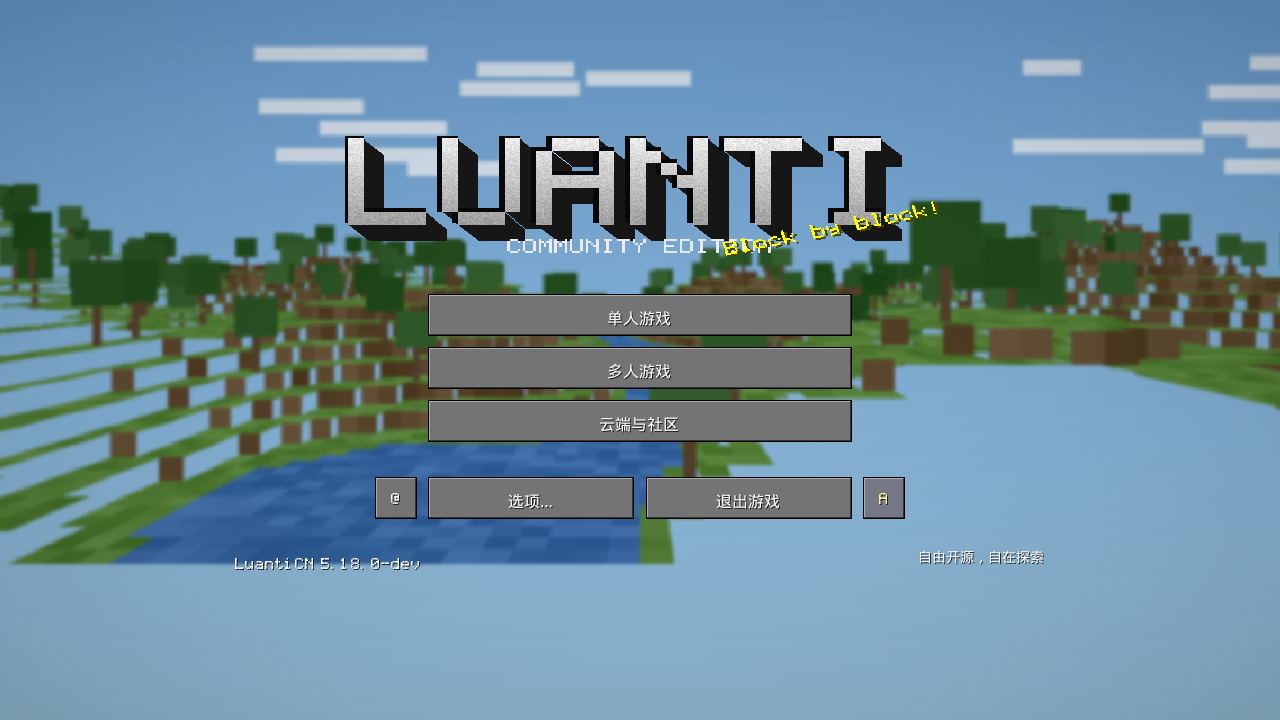
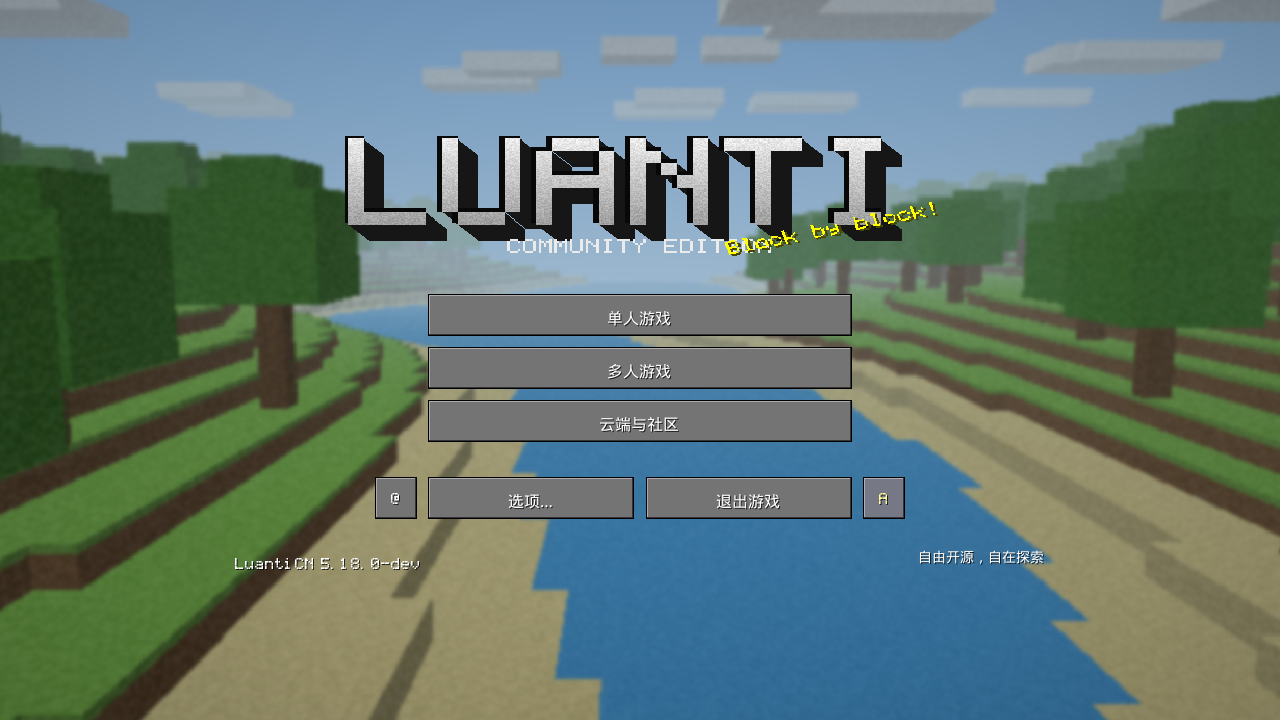
fix(ui): correct panorama projection, foreground coverage and drift

diff --git a/util/generate_classic_ui.py b/util/generate_classic_ui.py
@@ -1,5 +1,5 @@
 #!/usr/bin/env python3
-"""Rebuild original classic UI art and the BlockPixel font (Pillow, fontTools).
+"""Rebuild original classic UI art and BlockPixel (Pillow, fontTools, NumPy).
 
 No Minecraft assets or fonts are used. All bitmap patterns are authored here.
 SPDX-License-Identifier: CC0-1.0
@@ -10,6 +10,7 @@ import math
 import random
 
 from PIL import Image, ImageDraw, ImageFilter
+import numpy as np
 from fontTools.fontBuilder import FontBuilder
 from fontTools.pens.ttGlyphPen import TTGlyphPen
 
@@ -160,62 +161,111 @@ def build_dirt():
 
 
 def build_panorama():
-    # Original voxel river valley. Perspective faces are depth-sorted, then
-    # lightly blurred just like a distant title-screen panorama.
-    w, h = 1280, 640
-    image = Image.new("RGB", (w, h))
-    draw = ImageDraw.Draw(image)
-    for y in range(h):
-        t = y / h
-        draw.line((0, y, w, y), fill=(int(112 + 44*t), int(164 + 35*t), int(216 + 10*t)))
+    # Cast perspective rays through a complete voxel volume. The old polygon
+    # painter omitted side faces and stopped before the foreground, leaving
+    # blue holes and incorrect occlusion. Camera roll is always zero.
+    w, h = 640, 360
+    nx, ny, nz = 160, 48, 192
+    xs, zs = np.meshgrid(np.arange(nx), np.arange(nz), indexing="ij")
+    river = 80 + 7 * np.sin(zs / 25)
+    bank = np.maximum(0, np.abs(xs - river) - 5)
+    heights = np.clip(np.rint(4 + bank * .24 +
+        2 * np.sin(xs / 11) * np.cos(zs / 17) +
+        2 * np.sin(zs / 29)), 2, 23).astype(np.int32)
+    levels = np.arange(ny)[None, :, None]
+    world = np.where(levels <= heights[:, None, :], 2, 0).astype(np.uint8)
+    world[xs, heights, zs] = np.where(heights <= 7, 6, 1)
+    world[(world == 0) & (levels <= 6)] = 3
+
+    # Materials: grass, soil, water, wood, foliage, sand, cloud.
     rng = random.Random(991)
-    for _ in range(20):
-        x, y = rng.randrange(w), rng.randrange(30, 150)
-        draw.rectangle((x, y, x + rng.randrange(45, 190), y + 12), fill=(219, 232, 245))
+    for _ in range(300):
+        x, z = rng.randrange(5, nx - 5), rng.randrange(24, nz - 5)
+        ground = int(heights[x, z])
+        if ground <= 8 or abs(x - river[x, z]) < 10:
+            continue
+        top = ground + rng.randrange(5, 8)
+        world[x, ground + 1:top + 1, z] = 4
+        for y in range(top - 2, top + 3):
+            radius = 1 if y == top + 2 else 2
+            crown = world[x-radius:x+radius+1, y, z-radius:z+radius+1]
+            crown[crown == 0] = 5
+    for _ in range(18):
+        x, z = rng.randrange(4, nx - 20), rng.randrange(50, nz - 20)
+        world[x:x+rng.randrange(8, 19), 35:37, z:z+rng.randrange(5, 12)] = 7
 
-    def height(x, z):
-        river = 5 * math.sin(z / 15)
-        return max(0, round(2 + 4 * math.sin(x / 8) * math.cos(z / 11) +
-                            abs(x - river) / 7 - 4 * math.exp(-((x-river)/5)**2)))
+    u, v = np.meshgrid((np.arange(w) + .5) / w * 2 - 1,
+                       1 - (np.arange(h) + .5) / h * 2)
+    fov = math.tan(math.radians(72) / 2)
+    pitch = math.radians(8)
+    screen_y = v * fov * h / w
+    directions = np.stack((u * fov,
+        screen_y * math.cos(pitch) - math.sin(pitch),
+        math.cos(pitch) + screen_y * math.sin(pitch)), axis=-1).reshape(-1, 3)
+    directions /= np.linalg.norm(directions, axis=1)[:, None]
+    origin = np.array([82.5, 16.5, 12.5])
+    count = w * h
+    cells = np.broadcast_to(np.floor(origin).astype(np.int32), (count, 3)).copy()
+    steps = np.sign(directions).astype(np.int32)
+    deltas = np.full_like(directions, np.inf)
+    np.divide(1, np.abs(directions), out=deltas, where=directions != 0)
+    crossing = (np.where(steps > 0, cells + 1 - origin, origin - cells)) * deltas
+    crossing[directions == 0] = np.inf
+    material = np.zeros(count, dtype=np.uint8)
+    distance = np.zeros(count)
+    axis_hit = np.ones(count, dtype=np.int32)
+    active = np.arange(count)
+    bounds = np.array([nx, ny, nz])
 
-    def project(x, y, z):
-        depth = z + 28
-        return (w/2 + (x-2) * 620/depth, 235 + (10-y) * 620/depth)
+    # DDA visits each ray's nearest next voxel boundary. First occupied voxel
+    # wins, so every visible face has correct perspective and occlusion.
+    for _ in range(nx + ny + nz):
+        if active.size == 0:
+            break
+        axes = crossing[active].argmin(axis=1)
+        travel = crossing[active, axes].copy()
+        cells[active, axes] += steps[active, axes]
+        crossing[active, axes] += deltas[active, axes]
+        inside = ((cells[active] >= 0) & (cells[active] < bounds)).all(axis=1)
+        active, axes, travel = active[inside], axes[inside], travel[inside]
+        cell = cells[active]
+        types = world[cell[:, 0], cell[:, 1], cell[:, 2]]
+        hit = types != 0
+        pixels = active[hit]
+        material[pixels] = types[hit]
+        distance[pixels] = travel[hit]
+        axis_hit[pixels] = axes[hit]
+        active = active[~hit]
+    assert active.size == 0, "Incomplete voxel traversal"
+    assert np.all(material.reshape(h, w)[3*h//4:] != 0), "Uncovered foreground"
 
-    faces = []
-    for z in range(85, -8, -1):
-        for x in range(-65, 66):
-            y = height(x, z)
-            top_y = max(1, y)
-            n = rng.randrange(-15, 16)
-            top = (57+n, 105+n, 167+n) if y < 1 else (85+n, 130+n, 54+n)
-            top_points = [project(x, top_y, z), project(x+1, top_y, z),
-                          project(x+1, top_y, z+1), project(x, top_y, z+1)]
-            faces.append((z + 0.5, top_points, top))
-            neighbor = max(1, height(x, z-1))
-            if top_y > neighbor:
-                pts = [project(x, top_y, z), project(x+1, top_y, z),
-                       project(x+1, neighbor, z), project(x, neighbor, z)]
-                faces.append((z - 0.05, pts, (92+n, 70+n, 44+n)))
-            if y > 2 and rng.random() < 0.017:
-                tx, tz = project(x+0.5, y, z)
-                s = 620/(z+28)
-                faces.append((z - 0.1, [(tx-s*.18,tz), (tx+s*.18,tz),
-                                      (tx+s*.18,tz-3*s), (tx-s*.18,tz-3*s)], (85, 65, 43)))
-                faces.append((z - 0.2, [(tx-1.2*s,tz-2*s), (tx+1.2*s,tz-2*s),
-                                      (tx+1.2*s,tz-4.2*s), (tx-1.2*s,tz-4.2*s)], (42+n, 85+n, 36+n)))
-    for _, points, color in sorted(faces, key=lambda face: -face[0]):
-        draw.polygon(points, fill=color)
-    image = image.filter(ImageFilter.GaussianBlur(1.6))
-    # Subtle vignette keeps white text readable without hiding the landscape.
-    overlay = Image.new("RGBA", image.size)
-    pixels = overlay.load()
-    for y in range(h):
-        for x in range(w):
-            edge = ((x-w/2)/(w/2))**2 + ((y-h/2)/(h/2))**2
-            pixels[x, y] = (0, 0, 0, int(12 + min(edge, 2) * 26))
-    image = Image.alpha_composite(image.convert("RGBA"), overlay).convert("RGB")
-    image.save(PACK / "classic_panorama.png")
+    sky_t = np.clip(directions[:, 1] * 1.4 + .2, 0, 1)[:, None]
+    horizon = np.array([184, 210, 230])
+    sky = horizon * (1 - sky_t) + np.array([88, 151, 216]) * sky_t
+    palette = np.array([[0, 0, 0], [105, 158, 65], [116, 85, 53],
+        [56, 126, 177], [96, 70, 42], [63, 125, 43], [193, 183, 129], [244, 248, 250]])
+    colors = palette[material].astype(float)
+    point = origin + directions * distance[:, None]
+    # Grass occupies only the upper edge of a vertical soil face.
+    side = (material == 1) & (axis_hit != 1) & (point[:, 1] % 1 < .78)
+    colors[side] = palette[2]
+    normal = np.zeros_like(directions)
+    normal[np.arange(count), axis_hit] = -steps[np.arange(count), axis_hit]
+    sunlight = normal @ np.array([-.45, .8, -.35])
+    colors *= (.56 + .44 * np.maximum(sunlight, 0))[:, None]
+    texture_cell = np.floor(point * 8).astype(np.int32)
+    noise = ((texture_cell[:, 0] * 37 ^ texture_cell[:, 1] * 23 ^
+              texture_cell[:, 2] * 47) % 17 - 8)[:, None]
+    colors += noise
+    water = material == 3
+    colors[water] = palette[3] + noise[water] * .6
+    fog = (np.clip(distance / 150, 0, 1) ** 1.6 * .8)[:, None]
+    colors = colors * (1 - fog) + horizon * fog
+    colors[material == 0] = sky[material == 0]
+    vignette = (1 - .1 * (u * u + v * v)).reshape(-1, 1)
+    pixels = np.clip(colors * vignette * .91, 0, 255).astype(np.uint8).reshape(h, w, 3)
+    image = Image.fromarray(pixels).resize((1280, 720), Image.Resampling.NEAREST)
+    image.filter(ImageFilter.GaussianBlur(1.8)).save(PACK / "classic_panorama.png")
 
 
 def build_hud():

diff --git a/src/gui/guiEngine.cpp b/src/gui/guiEngine.cpp
@@ -502,12 +502,16 @@ void GUIEngine::drawBackground(video::IVideoDriver *driver)
 	) / 2;
 	if (m_textures[TEX_LAYER_BACKGROUND].panorama) {
 		// Slow drift within the image's overscan; never expose an empty edge.
-		bg_size.X *= 1.04f;
-		bg_size.Y *= 1.04f;
-		const float phase = porting::getTimeMs() * 0.00008f;
+		bg_size.X = std::ceil(bg_size.X * 1.04);
+		bg_size.Y = std::ceil(bg_size.Y * 1.04);
+		// Bound both the time value and movement: aspect-ratio cropping must
+		// not turn into a large sideways sweep on narrow windows.
+		const double phase = (porting::getTimeMs() % 180000) * (6.283185307179586 / 180000);
+		const s32 drift = std::min(((s32)bg_size.X - (s32)screensize.X) / 2,
+				(s32)std::round(screensize.X * 0.02));
 		offset.X = ((s32)screensize.X - (s32)bg_size.X) / 2;
 		offset.Y = ((s32)screensize.Y - (s32)bg_size.Y) / 2;
-		offset.X += std::sin(phase) * ((s32)bg_size.X - (s32)screensize.X) / 2;
+		offset.X += std::lround(std::sin(phase) * drift);
 	}
 	/* Draw background texture */
 	draw2DImageFilterScaled(driver, texture,
@@ -638,8 +642,12 @@ bool GUIEngine::setTexture(texture_layer layer, const std::string &texturepath,
 	m_textures[layer].texture = m_texture_source->getTexture(texturepath);
 	m_textures[layer].tile    = tile_image;
 	m_textures[layer].minsize = minsize;
-	m_textures[layer].panorama = texturepath == porting::getDataPath(
-			"textures" DIR_DELIM "base" DIR_DELIM "pack" DIR_DELIM "classic_panorama.png");
+	// Lua provides a canonical path, while a run-in-place share path may still
+	// contain "bin/..". Compare resolved paths to recognize the same resource.
+	const std::string panorama_path = fs::AbsolutePath(porting::getDataPath(
+			"textures" DIR_DELIM "base" DIR_DELIM "pack" DIR_DELIM "classic_panorama.png"));
+	m_textures[layer].panorama = !panorama_path.empty() &&
+			fs::AbsolutePath(texturepath) == panorama_path;
 
 	return m_textures[layer].texture != nullptr;
 }

diff --git a/doc/classic_ui/README.md b/doc/classic_ui/README.md
@@ -14,7 +14,10 @@
 | 社区 | 保留本 fork 的云同步、好友、组队、私聊和内容管理入口 |
 
 图案与字体由 `util/generate_classic_ui.py` 原创生成，使用 CC0 授权。
-重建资源需要 Python、Pillow 和 fontTools，运行 `python3 util/generate_classic_ui.py`。
+重建资源需要 Python、Pillow、fontTools 和 NumPy，运行 `python3 util/generate_classic_ui.py`。
+背景采用完整体素体积的透视射线遍历，包含全部可见侧面和前景遮挡；相机没有横滚。
+背景按窗口比例等比覆盖，水平漂移限制在窗口宽度的 2% 内。
+全景资源通过规范化后的路径识别，兼容运行目录中包含 `bin/..` 的情况。
 默认英文字体按整数像素栅格渲染；中文及其他缺失字形仍使用原有后备字体。
 
 这是针对 Luanti 引擎和内置菜单的 Java 经典风格改造。游戏或模组提供的背包布局、HUD 数量、
@@ -25,6 +28,7 @@
 以下截图来自 Linux / OpenGL 3 / 软件渲染 / 简体中文的实际客户端。
 
 ![标题画面](title.png)
+![标题画面（4:3 窗口）](title-4-3.png)
 ![世界列表](worlds.png)
 ![选项入口](options.png)
 ![暂停菜单](pause.webp)
@@ -41,6 +45,8 @@
 - 13 个生成资源重建后 SHA-256 完全一致。
 - 1280×720 与 800×600：标题、世界列表可用；创建世界、世界选项、游戏内暂停与背包、
   设置及其返回流程、多人连接页、社区各入口已在实际客户端检查。
+- 背景修复后另外检查了 1280×720、800×600、1280×600 的四边覆盖，以及连续动画帧的水平位移。
+  背景生成器检查前景完整覆盖，重建后的 PNG 哈希一致；客户端重新构建和 356 项单元检查通过。
 
 当前环境无法访问公共服务器列表和云服务；WebSocket 退回 REST 轮询。
 云端账号、真实远程服务器登录以及其他平台未执行端到端验证。
